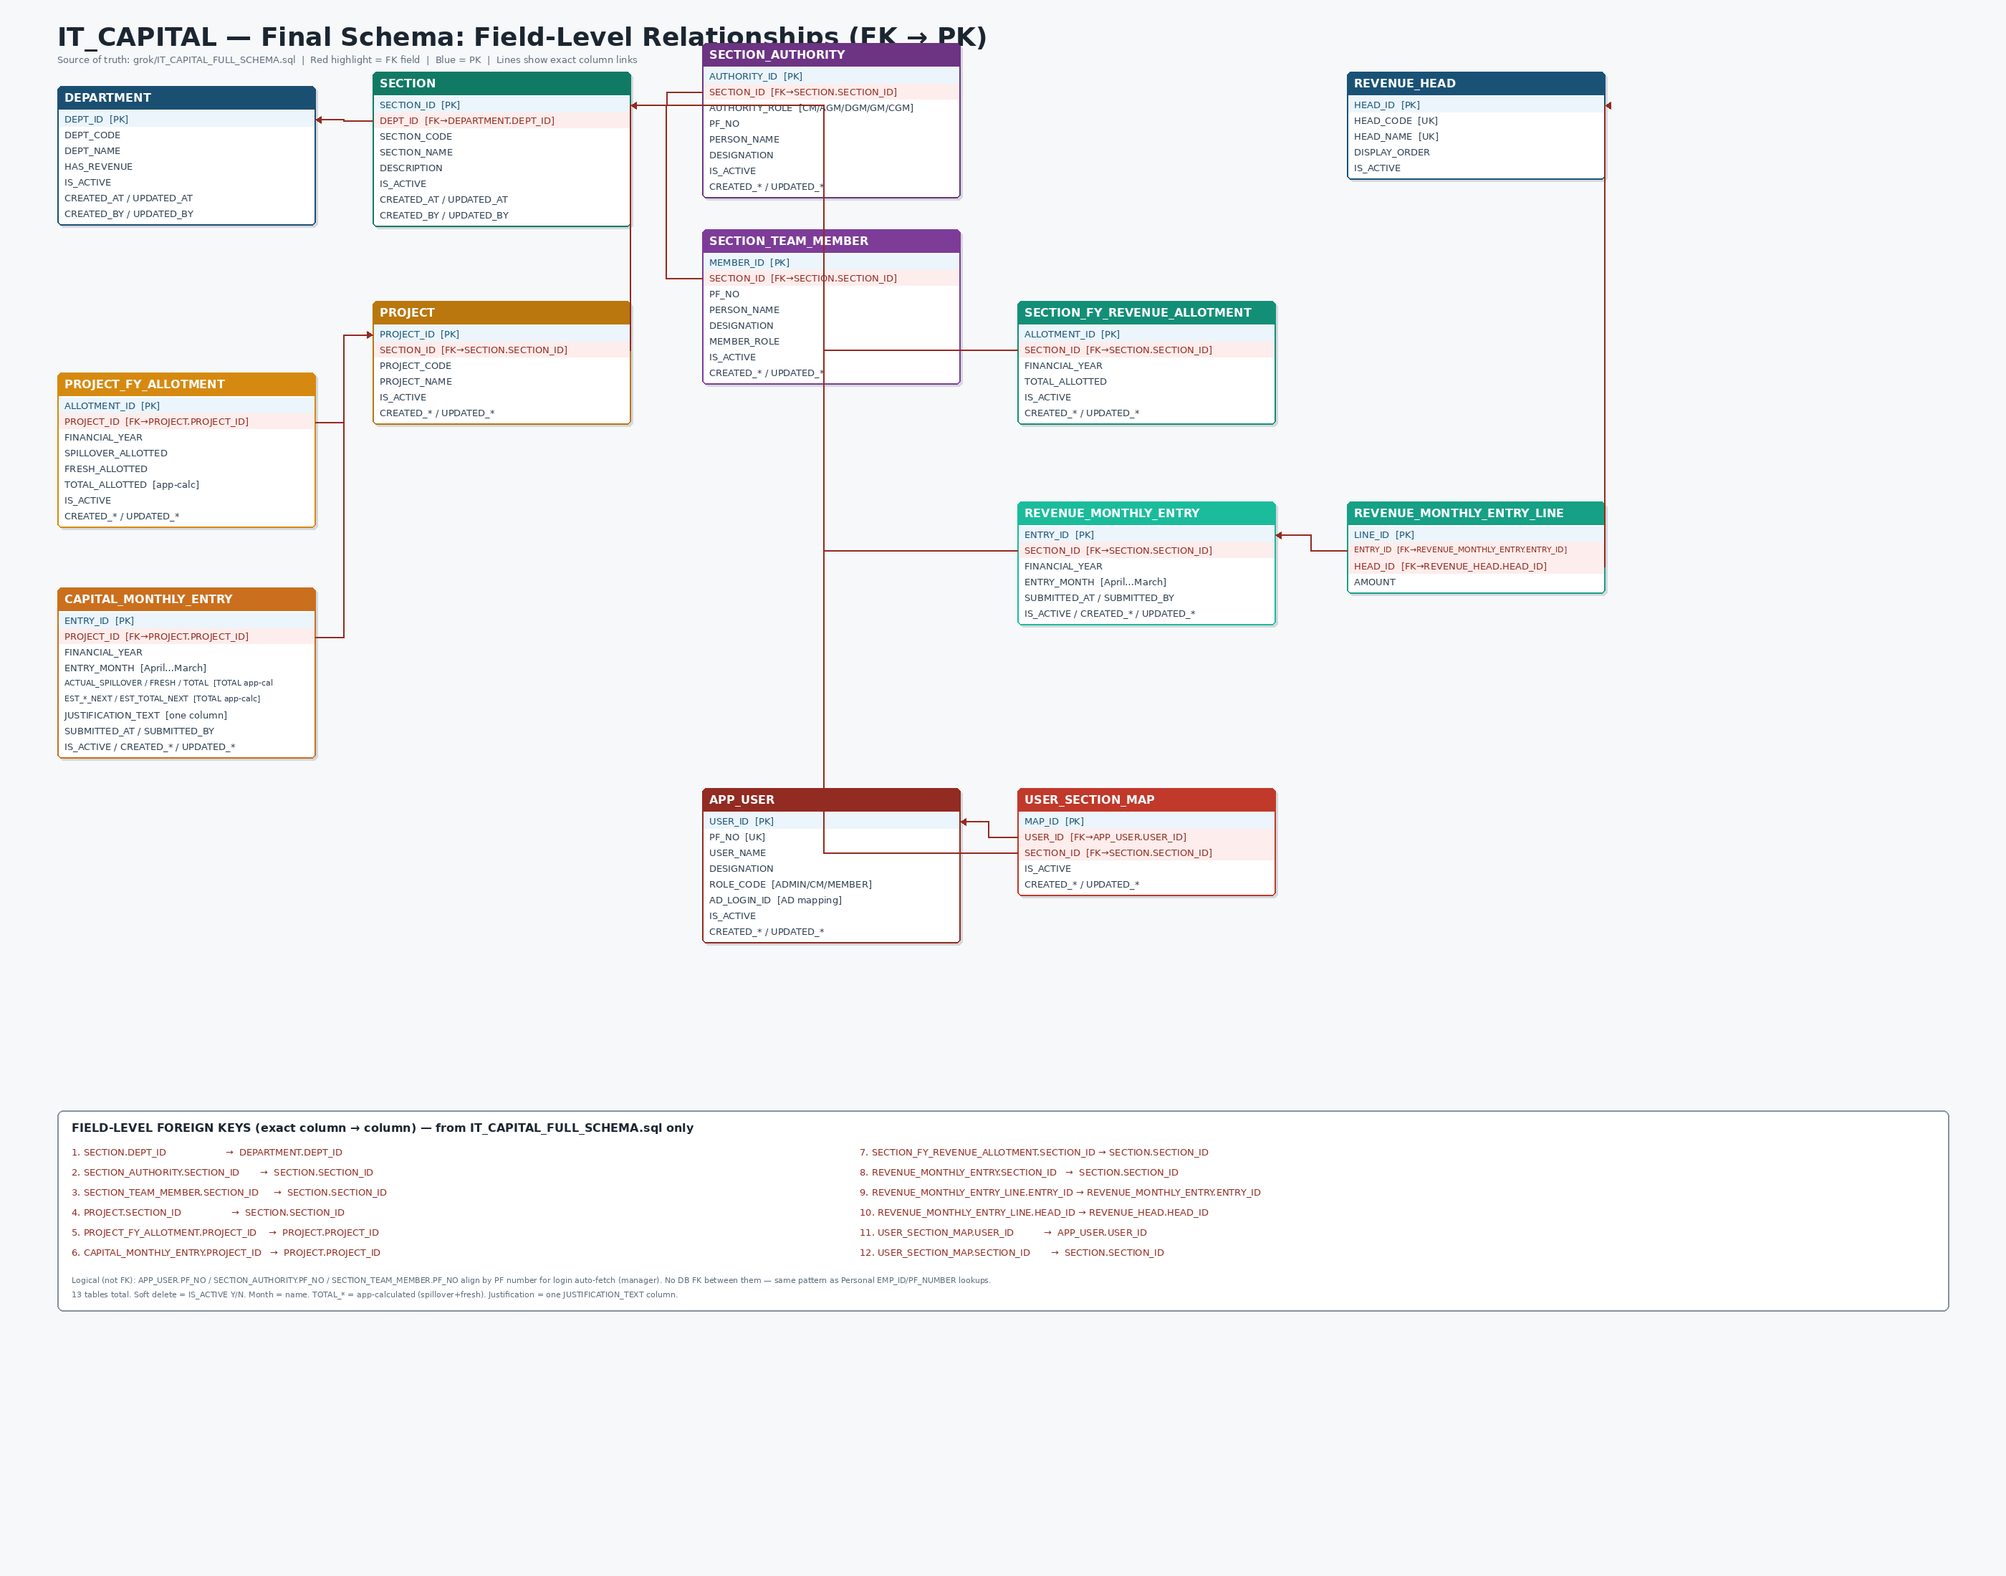
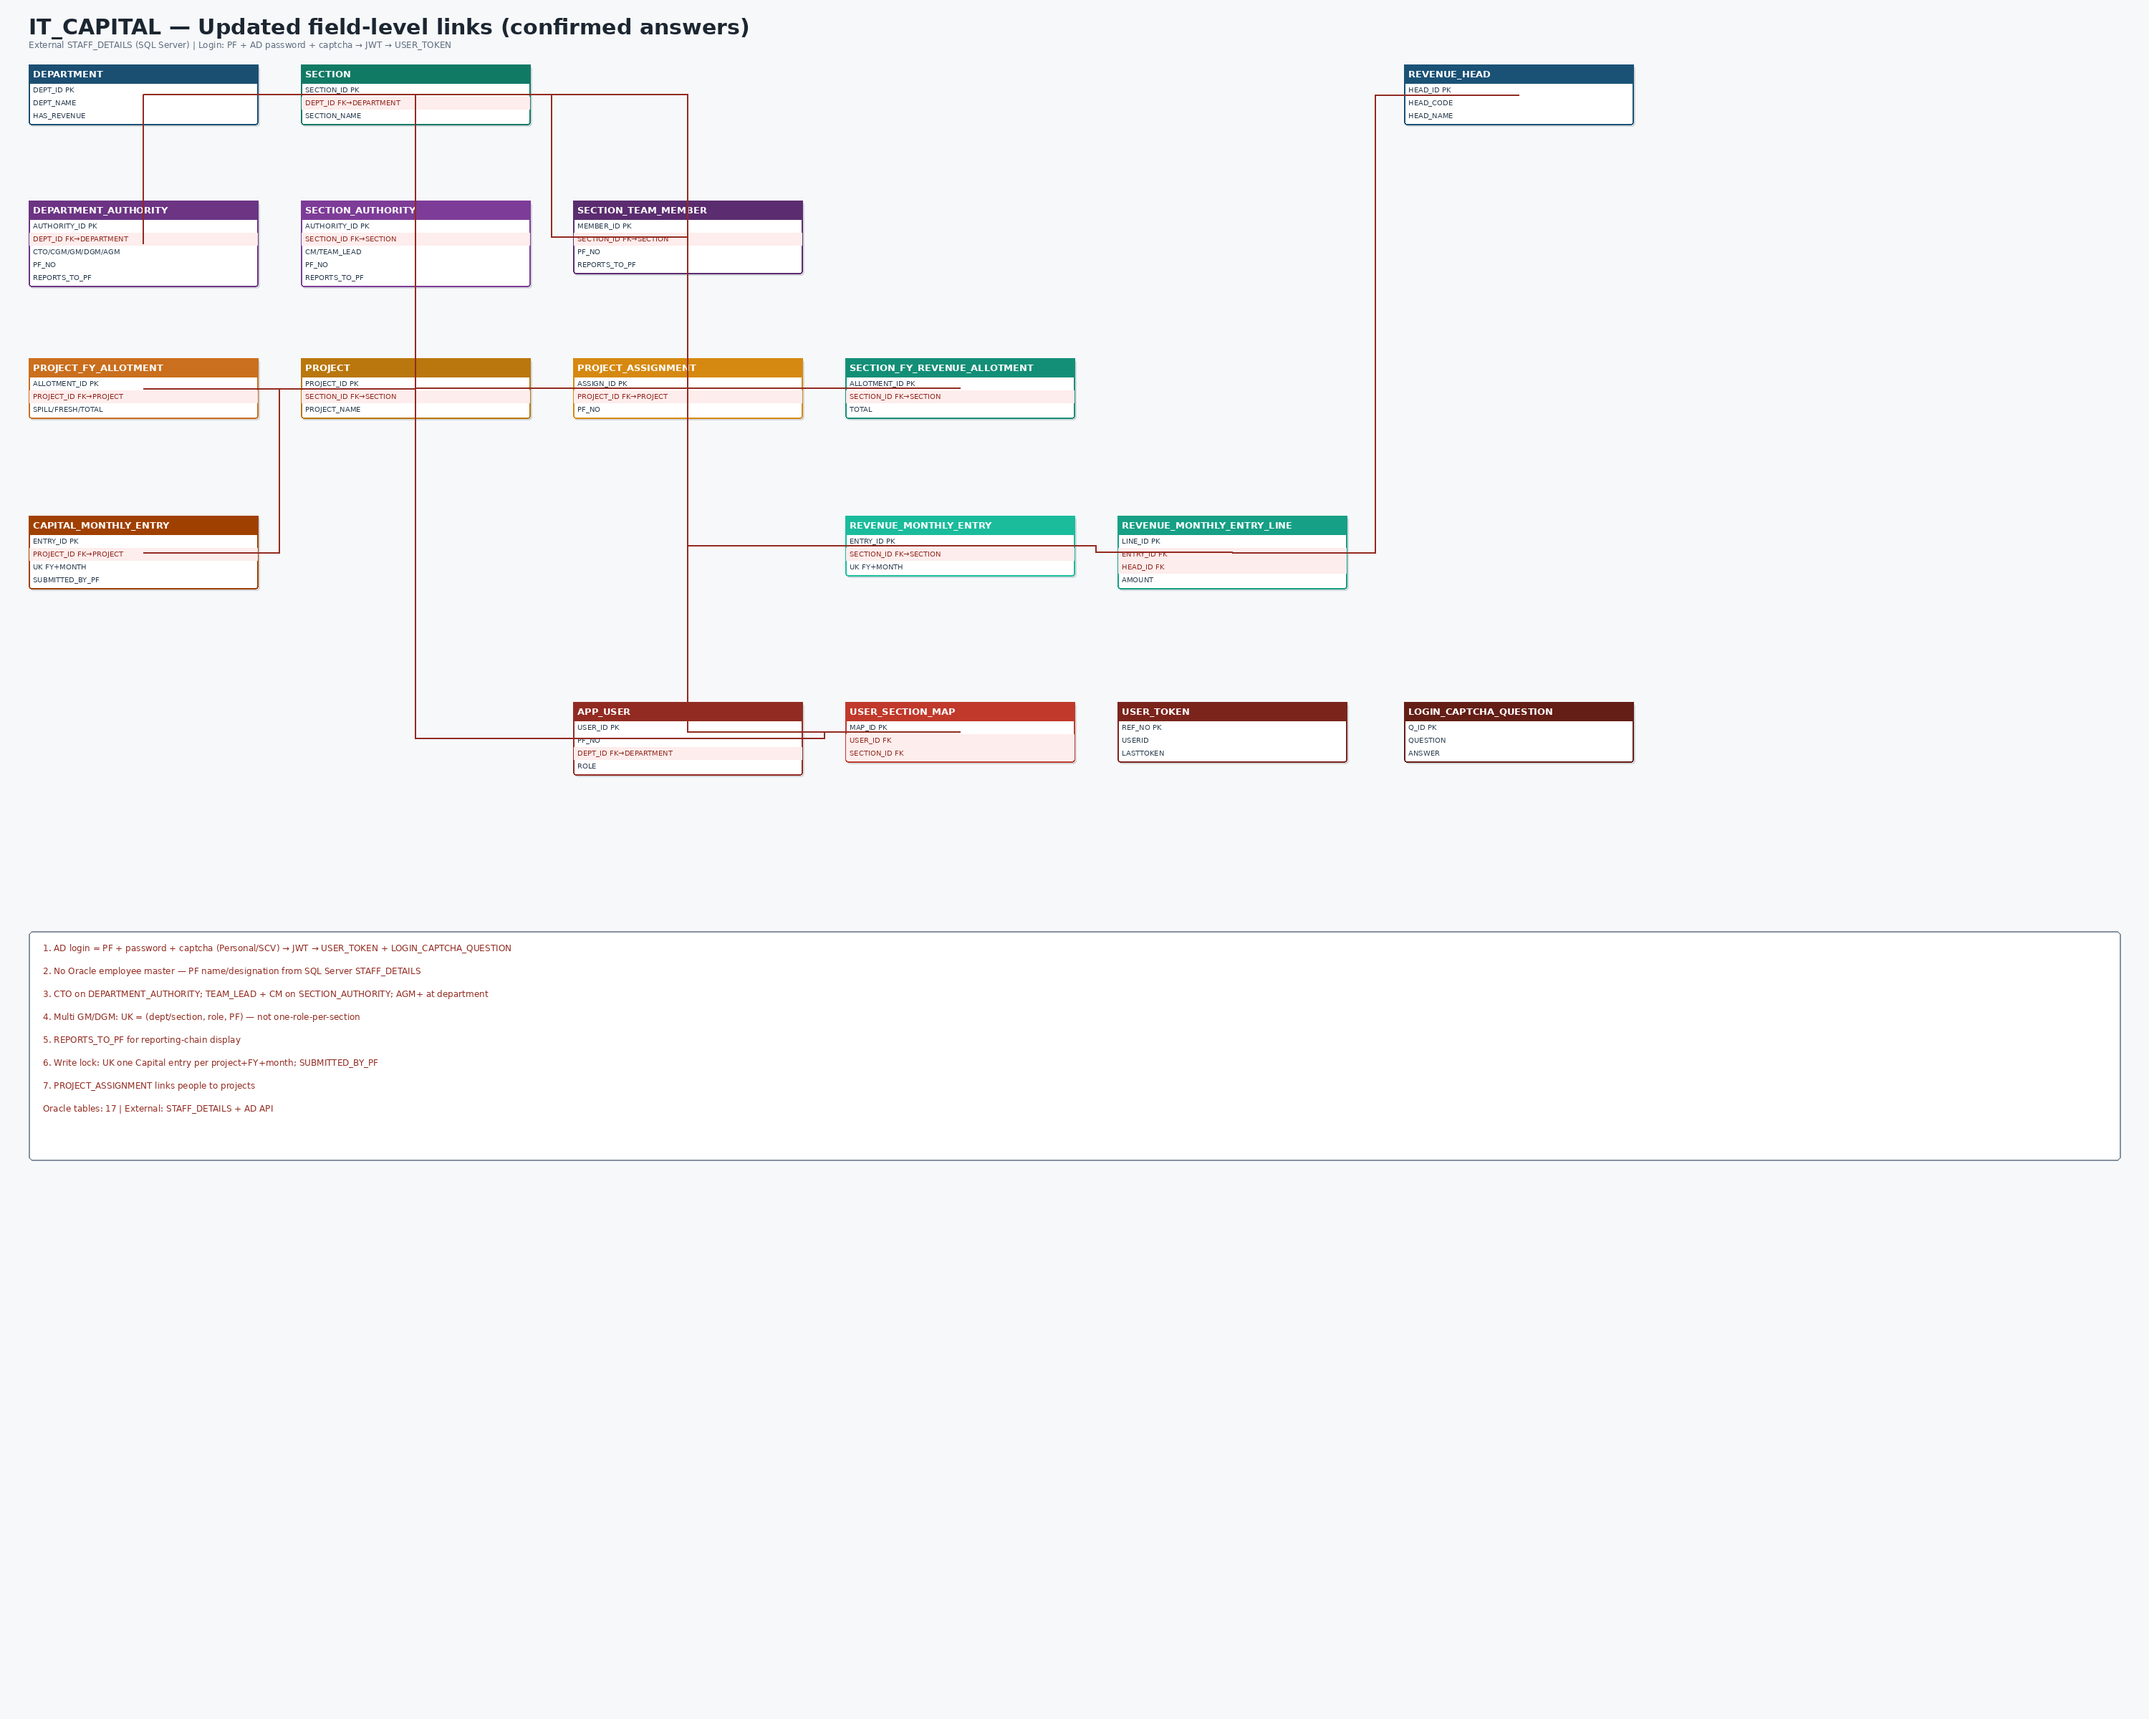
Update IT_CAPITAL schema from confirmed login and hierarchy answers
AD+captcha+USER_TOKEN like Personal; STAFF_DETAILS external lookup;
dept-level CTO/CGM/GM/DGM/AGM with multi-GM; section CM/TEAM_LEAD;
REPORTS_TO_PF; project assignment; one writer per project FY month.

diff --git a/grok/MEMORY.md b/grok/MEMORY.md
@@ -1,25 +1,22 @@
 # MEMORY
 
-**MudBlazor confirmed. Schema: IT_CAPITAL.**  
-DDL: `grok/IT_CAPITAL_FULL_SCHEMA.sql`  
-Reviews: `grok/FINAL_SCHEMA_AND_REPO_REVIEW.md`, `grok/NEW_CONVO_HIERARCHY_REVIEW.md`  
-Field-level FK image: `grok/diagrams/IT_CAPITAL_field_level_FK.png`
+**MudBlazor. Schema: IT_CAPITAL.** DDL: `grok/IT_CAPITAL_FULL_SCHEMA.sql` (17 Oracle tables)  
+Resolved opens: `grok/OPEN_ITEMS_RESOLVED.md`  
+FK image: `grok/diagrams/IT_CAPITAL_field_level_FK.png`
 
-## Clarifications (user unsure — decided from docs only)
-- **TOTAL:** Spillover + Fresh → Total (app-calculated).
-- **Justification:** one column `JUSTIFICATION_TEXT`.
+## Locked
+- TOTAL = spillover+fresh (app-calc). Justification = one `JUSTIFICATION_TEXT`.
+- Month names. 18 revenue heads. DIT only revenue. Soft delete `IS_ACTIVE`.
 
-## Repo facts (re-verified)
-- **Personal (SCV production):** captcha → AD `validateDomainUser` → JWT → `USER_TOKEN`; staff `STAFF_DETAILS` (EMP_ID); `ADMINS(PF_NUMBER,IS_DELETED)`.
-- **Diary:** no login; `SECTIONS` has TEAM_LEAD/AGM/DGM/GM/CGM/**CTO**; `EMPLOYEE_MASTER`; `MANPOWER_DETAILS`; Budget pie via MudChart — not Priyadarshini form.
+## Login / staff (confirmed)
+- Production: **PF + AD password + captcha** → AD `validateDomainUser` → JWT → `USER_TOKEN` (Personal/SCV pattern).
+- Captcha questions: `LOGIN_CAPTCHA_QUESTION` in Oracle.
+- **No** employee master in Oracle. Name/designation from **SQL Server `STAFF_DETAILS`** (`EMP_ID`=PF).
 
-## New hierarchy convo (facts) — schema NOT updated yet
-- CM multi-section; CM section assigned (display, not free change); CM adds projects+team.
-- Lower user: one section, multi projects, fills form.
-- Till AGM: assign people/sections. Above CM: manage, don’t fill entry.
-- DIT top = **CTO**; multi GM/DGM allowed; one person one department.
-- Demo login PF+password bypass temporary; production AD still per earlier ask/SRS — **OPEN**.
-- Employee table / PF source — **OPEN**.
-- DDL gaps vs new convo: no CTO; UNIQUE(section,role) conflicts multi-GM; no REPORTS_TO; no write-lock rule.
+## Hierarchy (confirmed from new convo + manager)
+- `DEPARTMENT_AUTHORITY`: CTO (one), CGM, multi GM, multi DGM, AGM + `REPORTS_TO_PF`
+- `SECTION_AUTHORITY`: CM, TEAM_LEAD + `REPORTS_TO_PF` (CM multi-section)
+- `SECTION_TEAM_MEMBER`, `PROJECT_ASSIGNMENT`
+- Write lock: UK one Capital entry per project+FY+month; `SUBMITTED_BY_PF`
 
 No UI code until user says do it.

diff --git a/grok/OPEN_ITEMS_RESOLVED.md b/grok/OPEN_ITEMS_RESOLVED.md
@@ -1,0 +1,13 @@
+# Open items — decisions (checked against conversations + Personal)
+
+| # | Question | Decision | Evidence |
+|---|----------|----------|----------|
+| 1 | Production login | **AD: PF + password + captcha** → JWT → `USER_TOKEN` | You confirmed; Personal SCV same pattern (`validateDomainUser` + captcha + `USER_TOKEN`) |
+| 2 | Employee / PF lookup | **No employee table in Oracle.** Lookup **SQL Server `STAFF_DETAILS`** | Personal `OrganisationsDbContext` → `STAFF_DETAILS` (`EMP_ID`, `EMP_NAME`, `DEPTID`, `EMP_DESGN_DESC`, …). You confirmed org SQL Server. |
+| 3 | CTO / TEAM_LEAD | **CTO yes** (dept). **TEAM_LEAD yes** (section). AGM+ at **department**; CM at **section** | New convo: one CTO/dept; “team lead, CM, AGM…”. Section not required above CM. Manager: CM–CGM. Diary has CTO + TEAM_LEAD columns. |
+| 4 | Multi GM/DGM | **Yes — allowed** | New convo Speaker 2: more than one GM, more DGMs; CGM one or two |
+| 5 | `REPORTS_TO_PF` | **Yes — added** (nullable) | New convo needs “who reports to whom” display; multi-GM makes role-order alone insufficient |
+| 6 | Write lock | **Yes — one entry per project+FY+month** | New convo: if budget written, others cannot write. DB: `UK_CAP_ENTRY` + `SUBMITTED_BY_PF` |
+
+DDL updated: `grok/IT_CAPITAL_FULL_SCHEMA.sql` (17 Oracle tables).  
+Diagram: `grok/diagrams/IT_CAPITAL_field_level_FK.png`
